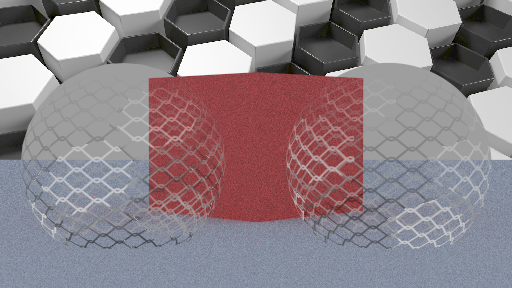
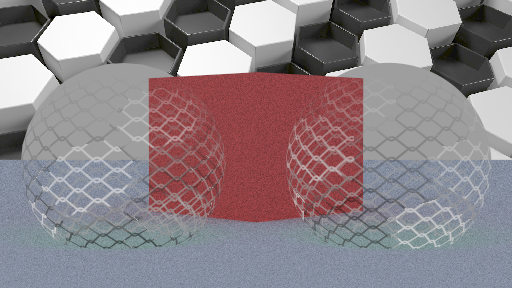
Tests

diff --git a/core/src/cameras/target_camera.cpp b/core/src/cameras/target_camera.cpp
@@ -109,9 +109,10 @@ color target_camera::ray_color(const ray& r, int depth, scene& _scene, randomize
     // If we've exceeded the ray bounce limit, no more light is gathered.
     if (depth <= 0)
     {
-        // return black color
+        // return background solid color
         return background_color;
     }
+
 
     // If the ray hits nothing, return the background color.
     // 0.001 is to fix shadow acne interval
@@ -225,22 +226,38 @@ color target_camera::ray_color(const ray& r, int depth, scene& _scene, randomize
             
 
             // try 3
+            /*if (r.x > 0 || r.y > 0)
+            {
+                int s = 0;
+            }*/
+            
             color background_behind = get_background_image_color(r, background_texture, background_iskybox);
+
 
             ray ray_behind(rec.hit_point, r.direction(), r.time());
 
             color background_infrontof = ray_color(ray_behind, depth - 1, _scene, random);
 
             hit_record rec_behind;
-            
             if (_scene.get_world().hit(ray_behind, interval(0.001, infinity), rec_behind, depth))
             {
-                final_color = blend_colors(background_behind, background_infrontof, srec.alpha_value);
+                scatter_record srec_behind;
+                if (rec_behind.mat->scatter(ray_behind, _scene.get_emissive_objects(), rec_behind, srec_behind, random))
+                {
+					final_color = blend_colors(background_behind, background_infrontof, srec.alpha_value);
+				}
+				else
+				{
+                    final_color = color::green();
+                }
+                // another object found behind the alpha textured object
+                
             }
             else
             {
-
-                
+                // here !!!!!!!!!!! 0.384............ ???
+                // no other object behind the alpha textured object, just display background image
+                background_behind = color(1.0, 0.0, 0.0);
                 final_color = blend_colors(background_infrontof, background_behind, srec.alpha_value);
             }
         }

diff --git a/core/src/main.cpp b/core/src/main.cpp
@@ -138,7 +138,7 @@ int main(int argc, char* argv[])
     renderTimer.start();
 
     renderer render;
-    render.render(world, cam, params, true);
+    render.render(world, cam, params, false);
 
     // Stop measuring time
     renderTimer.stop();
